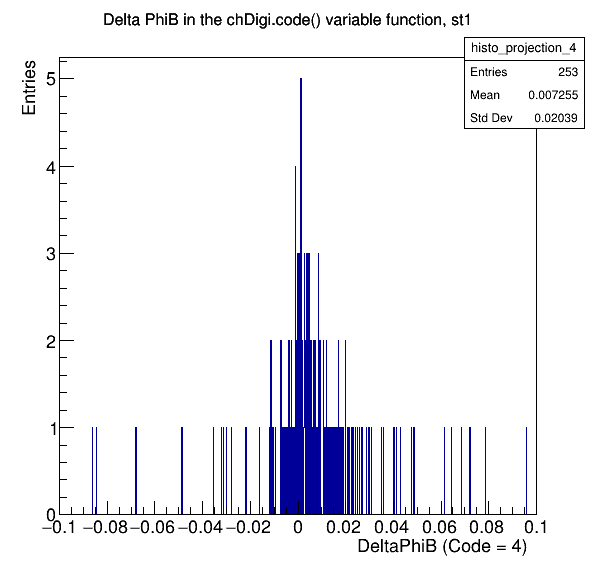
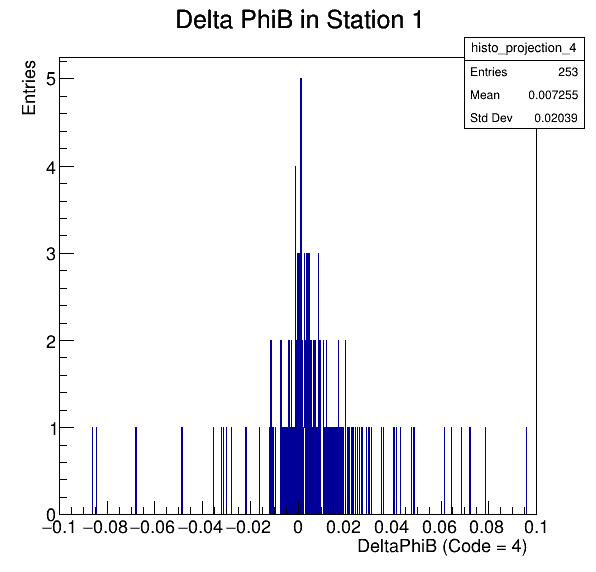
smallbugfix

Changed region(s): [[0.1812, 0.0, 0.7852, 0.0594]]

diff --git a/plots.py b/plots.py
@@ -532,6 +532,7 @@ for (code_value) in range(2, 7):
     c40 = TCanvas(f'cSt1Code{code_value}', f'Delta PhiB in Station 1 code {code_value}', 600, 600)
     histo_projection.GetXaxis().SetTitle(f'DeltaPhiB (Code = {code_value})')
     histo_projection.GetYaxis().SetTitle('Entries')
+    histo_projection.SetTitle('Delta PhiB in Station 1')
     histo_projection.Draw("COL")
 
     c40.Print(f"./plots/{c40.GetName()}.png")
@@ -548,6 +549,7 @@ for (code_value) in range(2, 7):
     c41 = TCanvas(f'cSt2Code{code_value}', f'Delta PhiB in Station 2 code {code_value}', 600, 600)
     histo_projection.GetXaxis().SetTitle(f'DeltaPhiB (Code = {code_value})')
     histo_projection.GetYaxis().SetTitle('Entries')
+    histo_projection.SetTitle('Delta PhiB in Station 2')
     histo_projection.Draw("COL")
 
     c41.Print(f"./plots/{c41.GetName()}.png")
